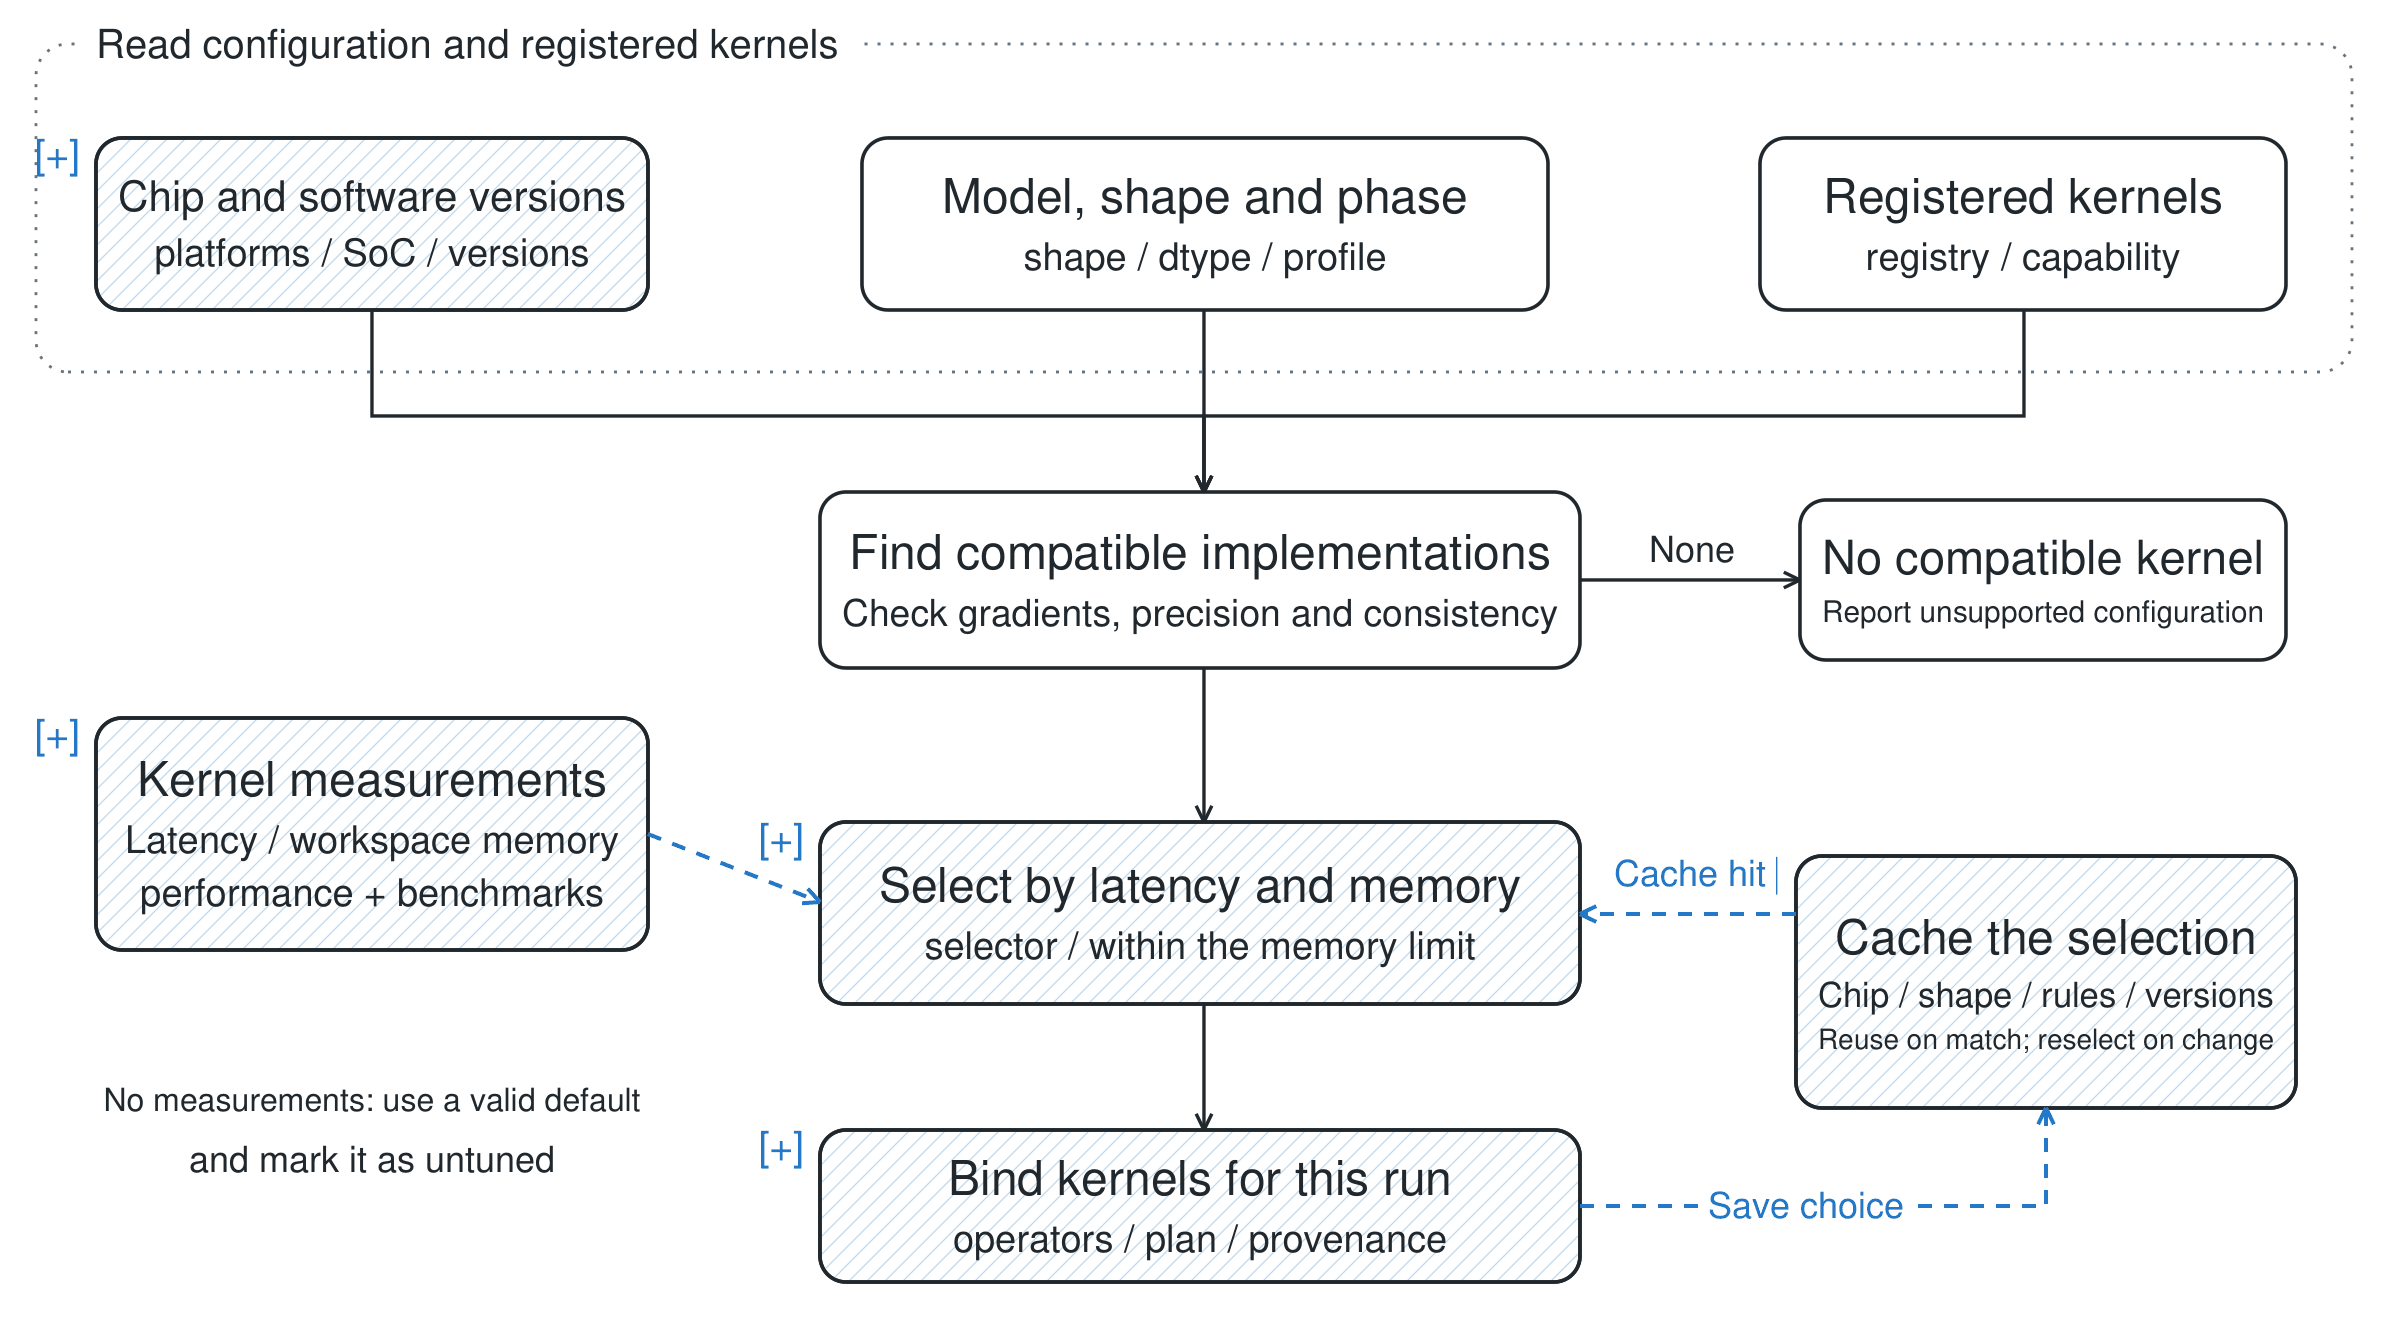
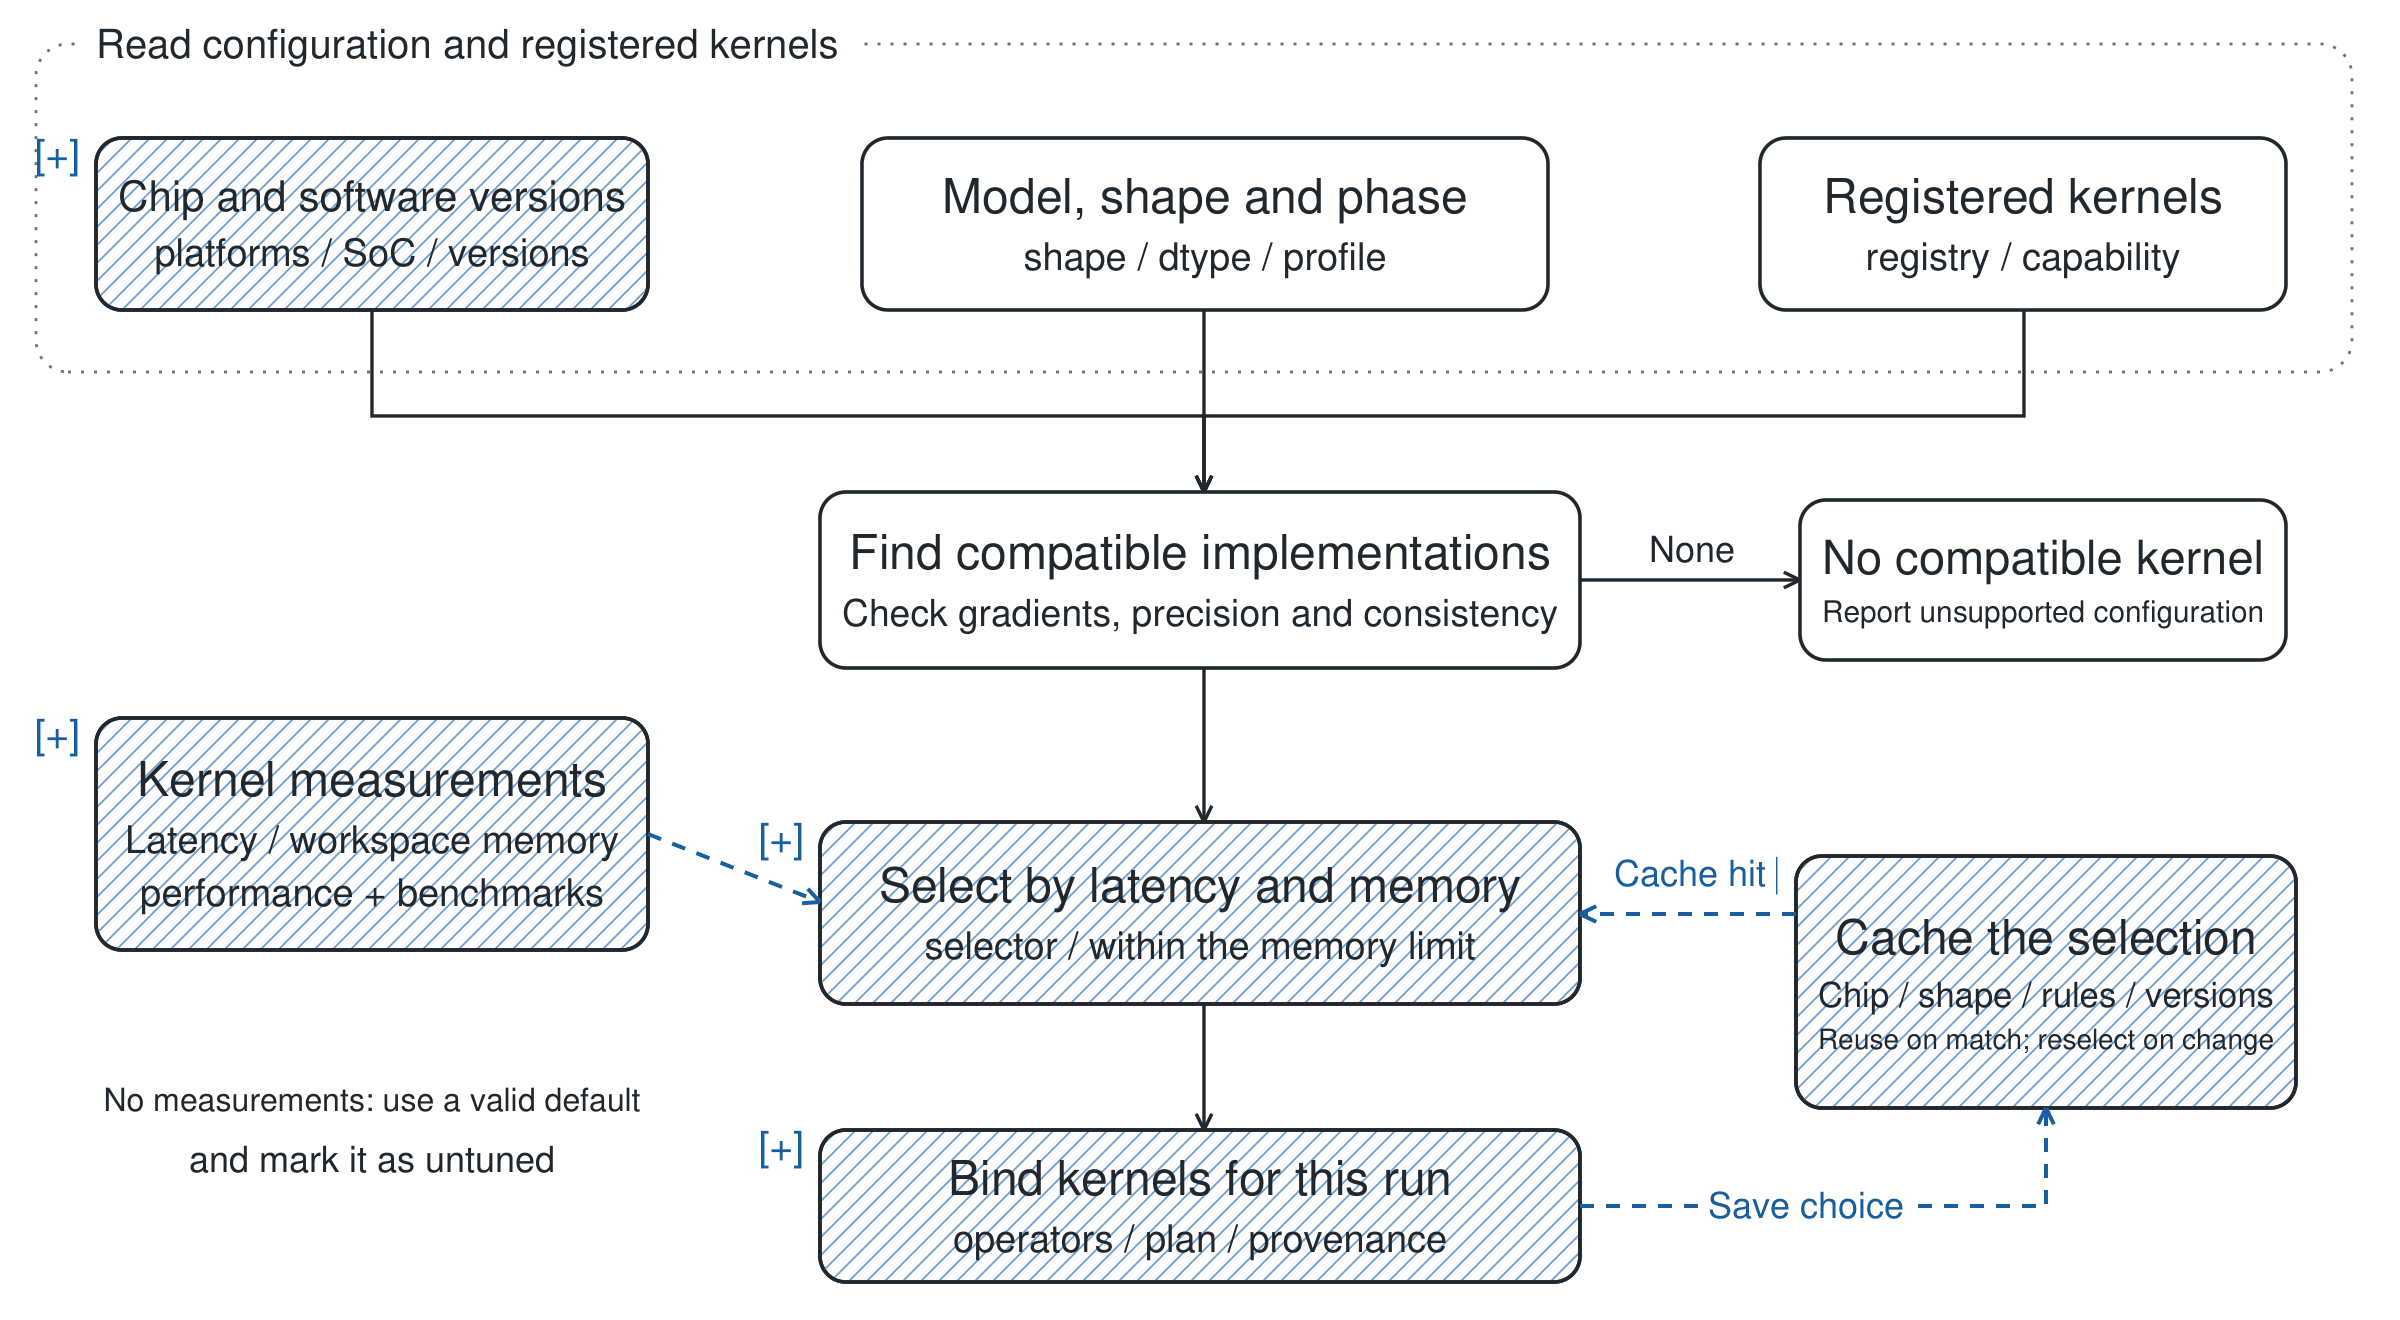
docs: increase blue contrast in issue #563 diagrams

diff --git a/docs/roadmaps/assets/issue-563/render.py b/docs/roadmaps/assets/issue-563/render.py
@@ -12,8 +12,8 @@ from reportlab.pdfbase import pdfmetrics
 from reportlab.lib import colors
 
 ASSETS = Path(__file__).resolve().parent
-INK=colors.HexColor('#22282E'); BLUE=colors.HexColor('#2479C8')
-PALE=colors.HexColor('#BAD8F1'); GRAY=colors.HexColor('#68747E')
+INK=colors.HexColor('#22282E'); BLUE=colors.HexColor('#1761A2')
+PALE=colors.HexColor('#6E9FD2'); GRAY=colors.HexColor('#68747E')
 
 class Figure:
     def __init__(self,c,w=1200,h=660): self.c=c; self.w=w; self.h=h
@@ -26,7 +26,7 @@ class Figure:
         c.setFillColor(colors.white);c.setStrokeColor(INK);c.setLineWidth(1.8);c.roundRect(x,yy,w,h,13,fill=1,stroke=1)
         if new:
             c.saveState();p=c.beginPath();p.roundRect(x+1,yy+1,w-2,h-2,12);c.clipPath(p,stroke=0,fill=0)
-            c.setStrokeColor(PALE);c.setLineWidth(.65)
+            c.setStrokeColor(PALE);c.setLineWidth(.85)
             for k in range(-int(h),int(w)+int(h),9): c.line(x+k,yy,x+k+h,yy+h)
             c.restoreState();c.setStrokeColor(INK);c.setLineWidth(1.8);c.roundRect(x,yy,w,h,13,stroke=1,fill=0)
             self.label(x-8,y+8,'[+]',size=20,bold=True,color=BLUE,align='right')
